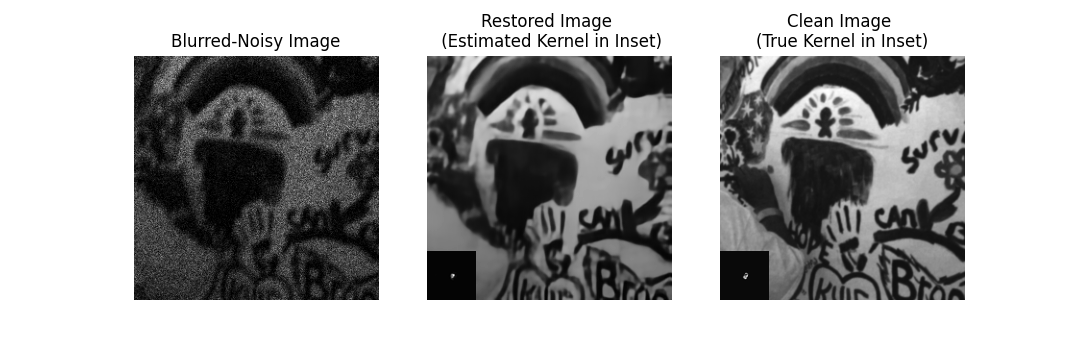
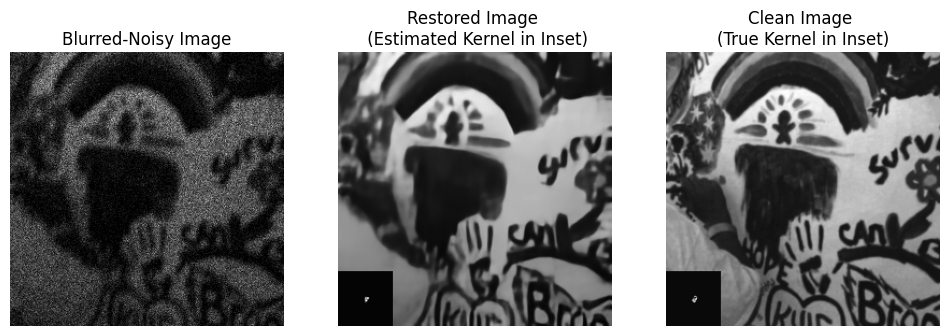
Changed demo result files

diff --git a/demo_real.py b/demo_real.py
@@ -94,7 +94,6 @@ if __name__ == "__main__":
 	y_rgb = rggb_to_rgb(y_out_list, [1,1,1])
 	x_rgb = rggb_to_rgb(x_out_list, [1,1,1])
 	
-	plt.figure(figsize=(12,6))
 	plt.subplot(1,2,1)
 	plt.imshow(y_rgb); plt.axis('off')
 	plt.title('Noisy-Blur Image')
@@ -102,4 +101,6 @@ if __name__ == "__main__":
 	plt.subplot(1,2,2)
 	plt.imshow(x_rgb); plt.axis('off')
 	plt.title('Reconstructed Image')
+	plt.savefig('results/demo_real_output.png', bbox_inches='tight')
+
 	plt.show()

diff --git a/demo_grayscale.py b/demo_grayscale.py
@@ -71,4 +71,5 @@ if __name__ == "__main__":
 	
 	plt.subplot(1,3,3); plt.imshow(add_inset(x, pad(k_true, [64,64])), cmap='gray');
 	plt.axis('off'); plt.title('Clean Image \n(True Kernel in Inset)')
+	plt.savefig('results/demo_grayscale_output.png', bbox_inches='tight')
 	plt.show()
